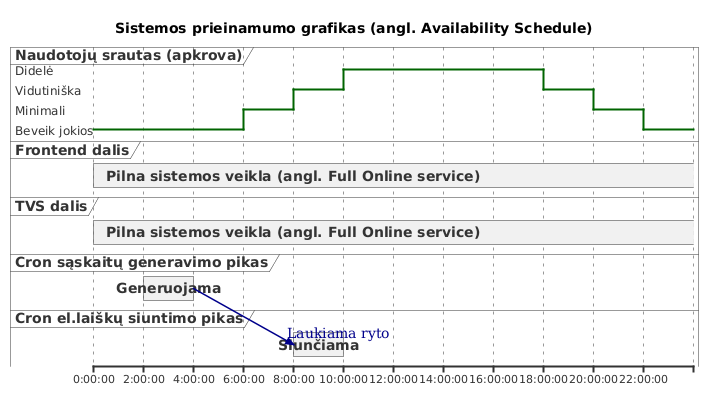
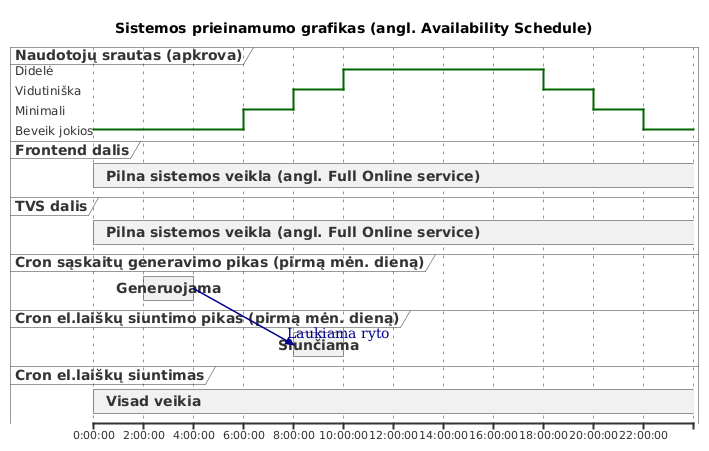
lab2 README

Changed region(s): [[0.0, 0.0304, 0.9929, 0.9722]]

diff --git a/docs/Programų sistemų architektūra ir projektavimas_lab2/README.md b/docs/Programų sistemų architektūra ir projektavimas_lab2/README.md
@@ -775,6 +775,20 @@ Kiekvienas „`release`“ žymimas Git žyma _(angl. tag)_ X.Y.Z pagal semantin
 - Slapti raktai (Paysera, SMTP) nekeliami į Git – laikomi tik saugiose paslaugose (pvz., CI „secret store“).
 - DB migracijos vykdomos automatiškai „deploy“ metu, su „rollback“ scenarijais kritinių klaidų atveju.
 
+### Cron komandos
+Cron komandos (sąskaitų generavimo, el. siuntimo vykdomos per cron procesą) paleidžiamą kas 1 minutę.
+#### Sąskaitų generavimas
+Sąskaitos generavimas paleidžiamas 1 kartą per mėnesį pirmą mėnesio dieną už praeitą mėnesį. `crotab` privalo būti įrašyta eilutė:
+```php
+0 1 1 * * php bin/console invoices:generate
+```
+
+#### El. laiškų siuntimas
+El. laiško siuntimo komanda privalo pasileisti kiekvieną minutę, kad gavėjai iškart gautų el.laiškus. `crotab` privalo būti įrašyta eilutė:
+```php
+* * * * * php bin/console emails:send
+```
+
 ## 4.6. Diegimo vaizdas _(angl. Deployment View)_
 ### 4.6.1. Sprendžiami rūpesčiai _(angl. Concerns)_
 - Kaip sistemiškai virtualizuojami komponentai (konteineriai)
@@ -3013,13 +3027,15 @@ title Sistemos prieinamumo grafikas (angl. Availability Schedule)
 robust "Naudotojų srautas (apkrova)" as Re1
 rectangle "Frontend dalis" as Re2
 rectangle "TVS dalis" as Re3
-rectangle "Cron sąskaitų generavimo pikas" as Re4
-rectangle "Cron el.laiškų siuntimo pikas" as Re5
+rectangle "Cron sąskaitų generavimo pikas (pirmą mėn. dieną)" as Re4
+rectangle "Cron el.laiškų siuntimo pikas (pirmą mėn. dieną)" as Re5
+rectangle "Cron el.laiškų siuntimas" as Re6
 
 @00:00:00
 Re1 is "Beveik jokios"
 Re2 is "Pilna sistemos veikla (angl. Full Online service)"
 Re3 is "Pilna sistemos veikla (angl. Full Online service)"
+Re6 is "Visad veikia"
 
 @02:00:00
 Re4 is "Generuojama"
